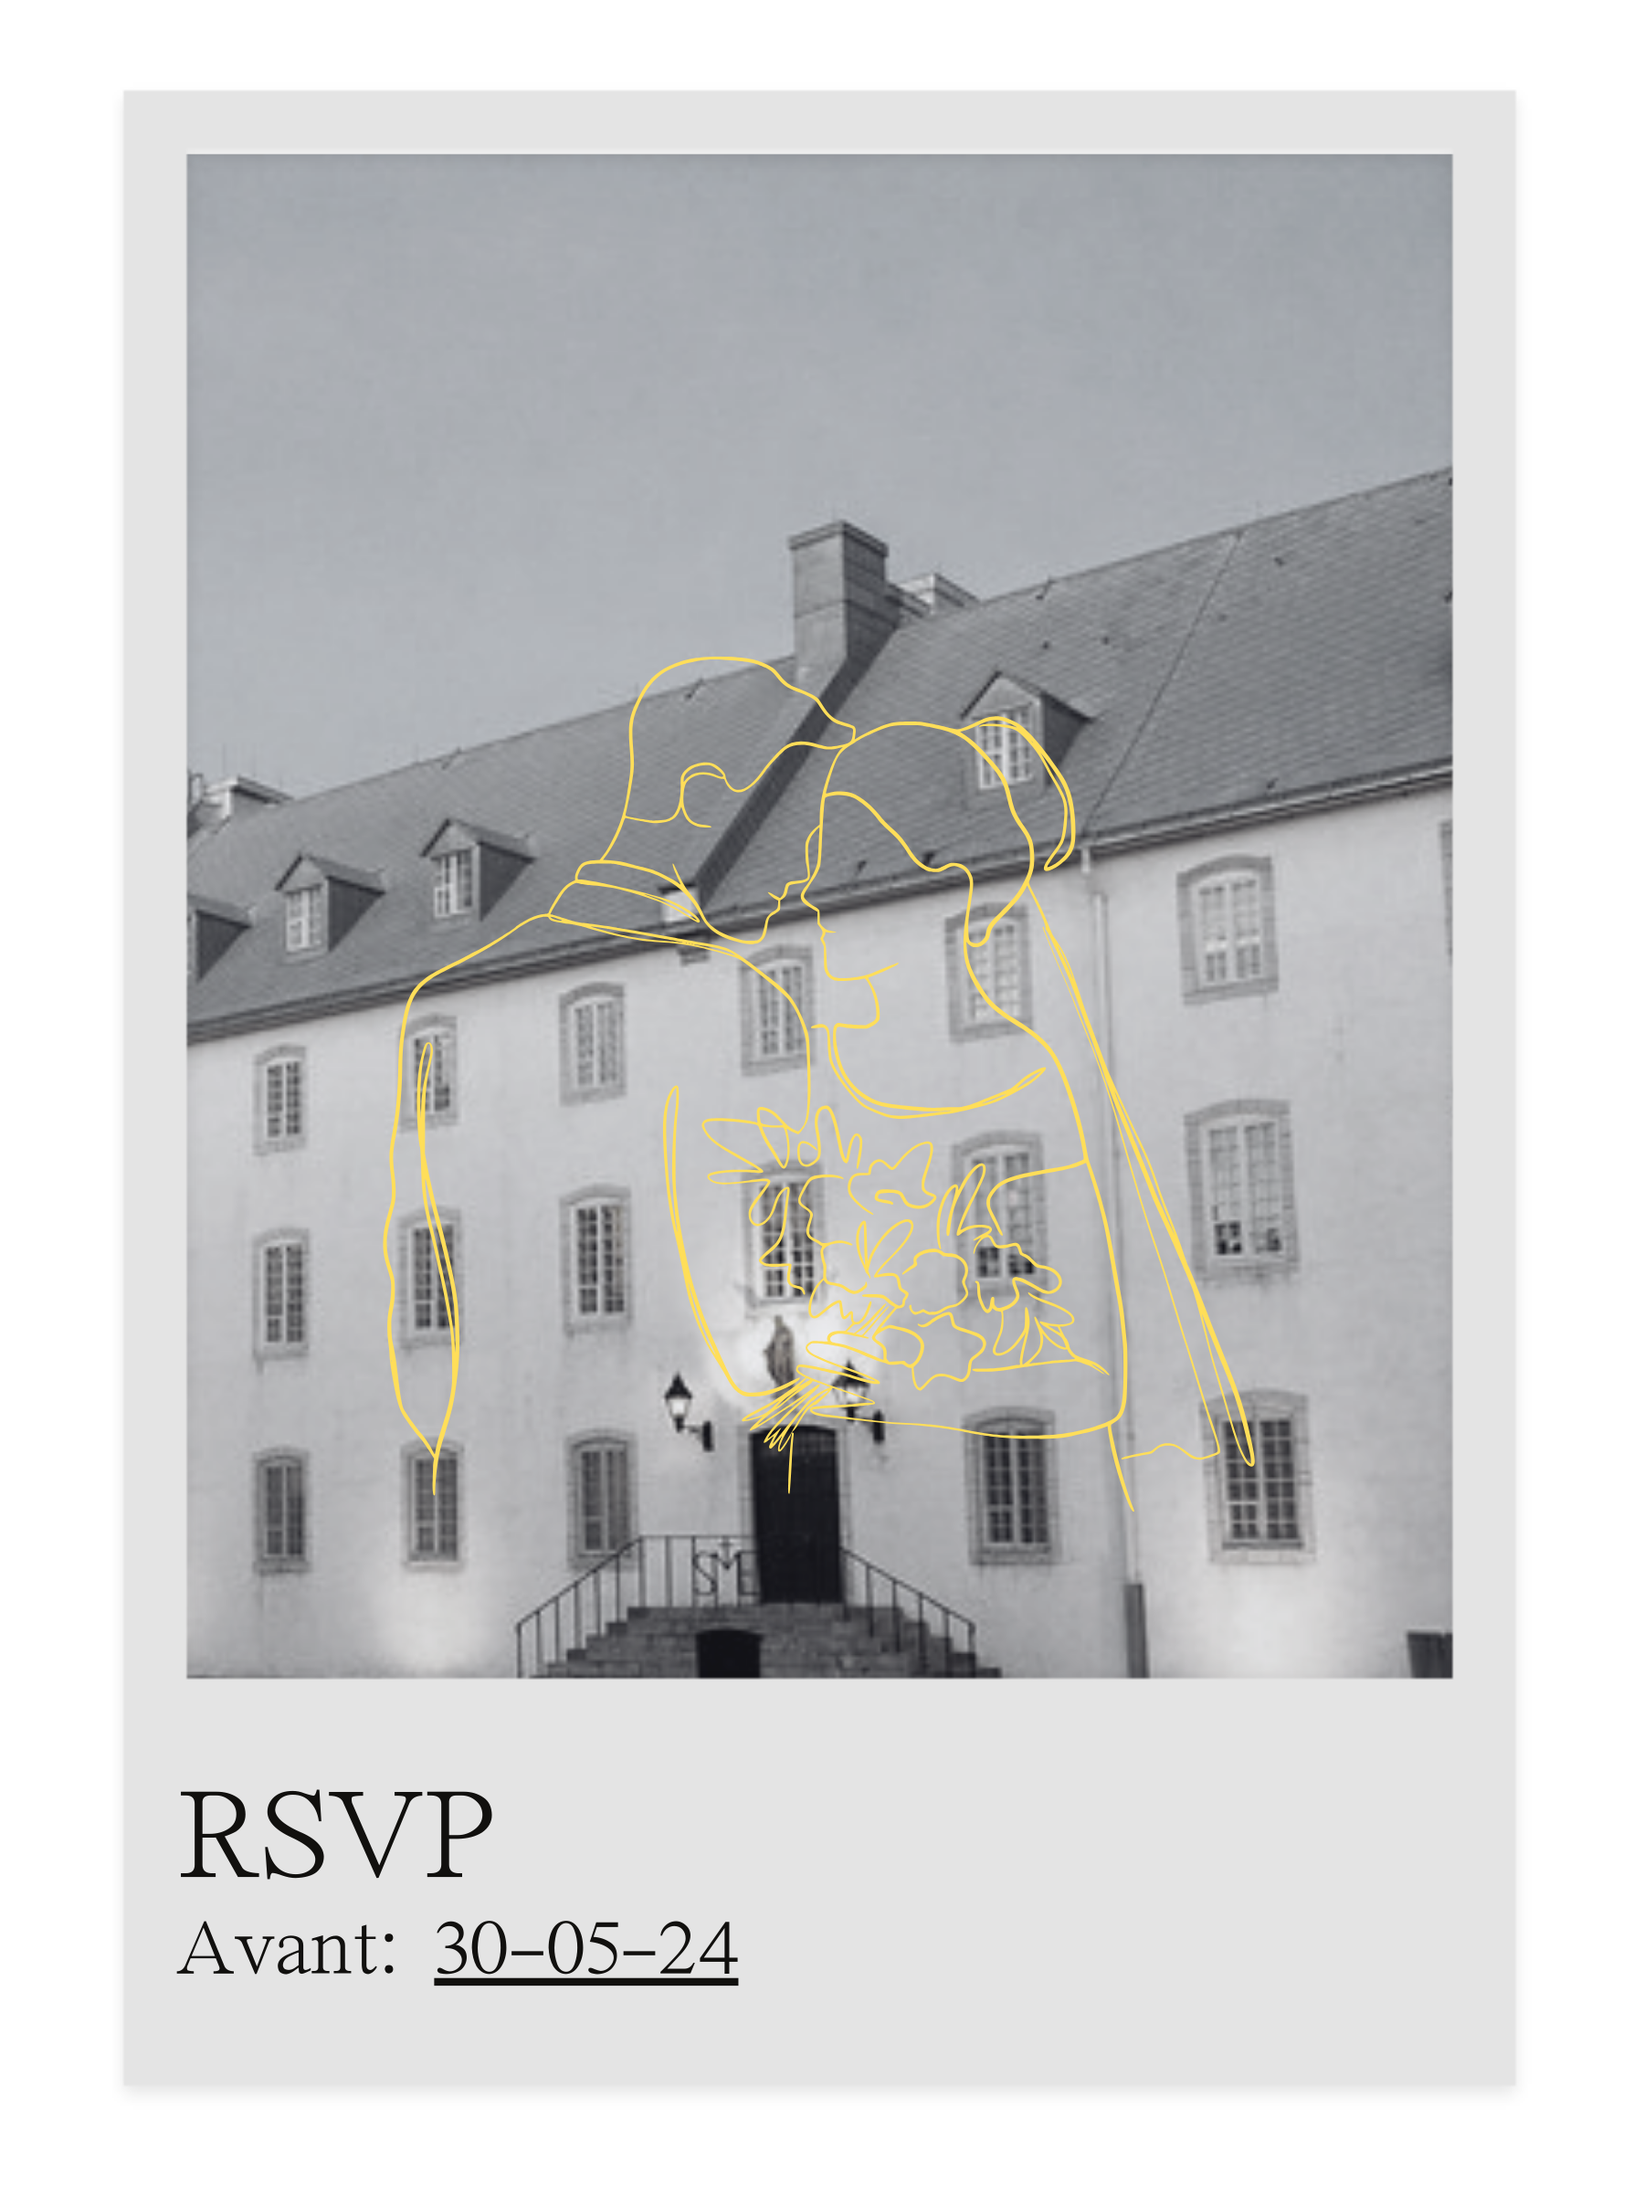
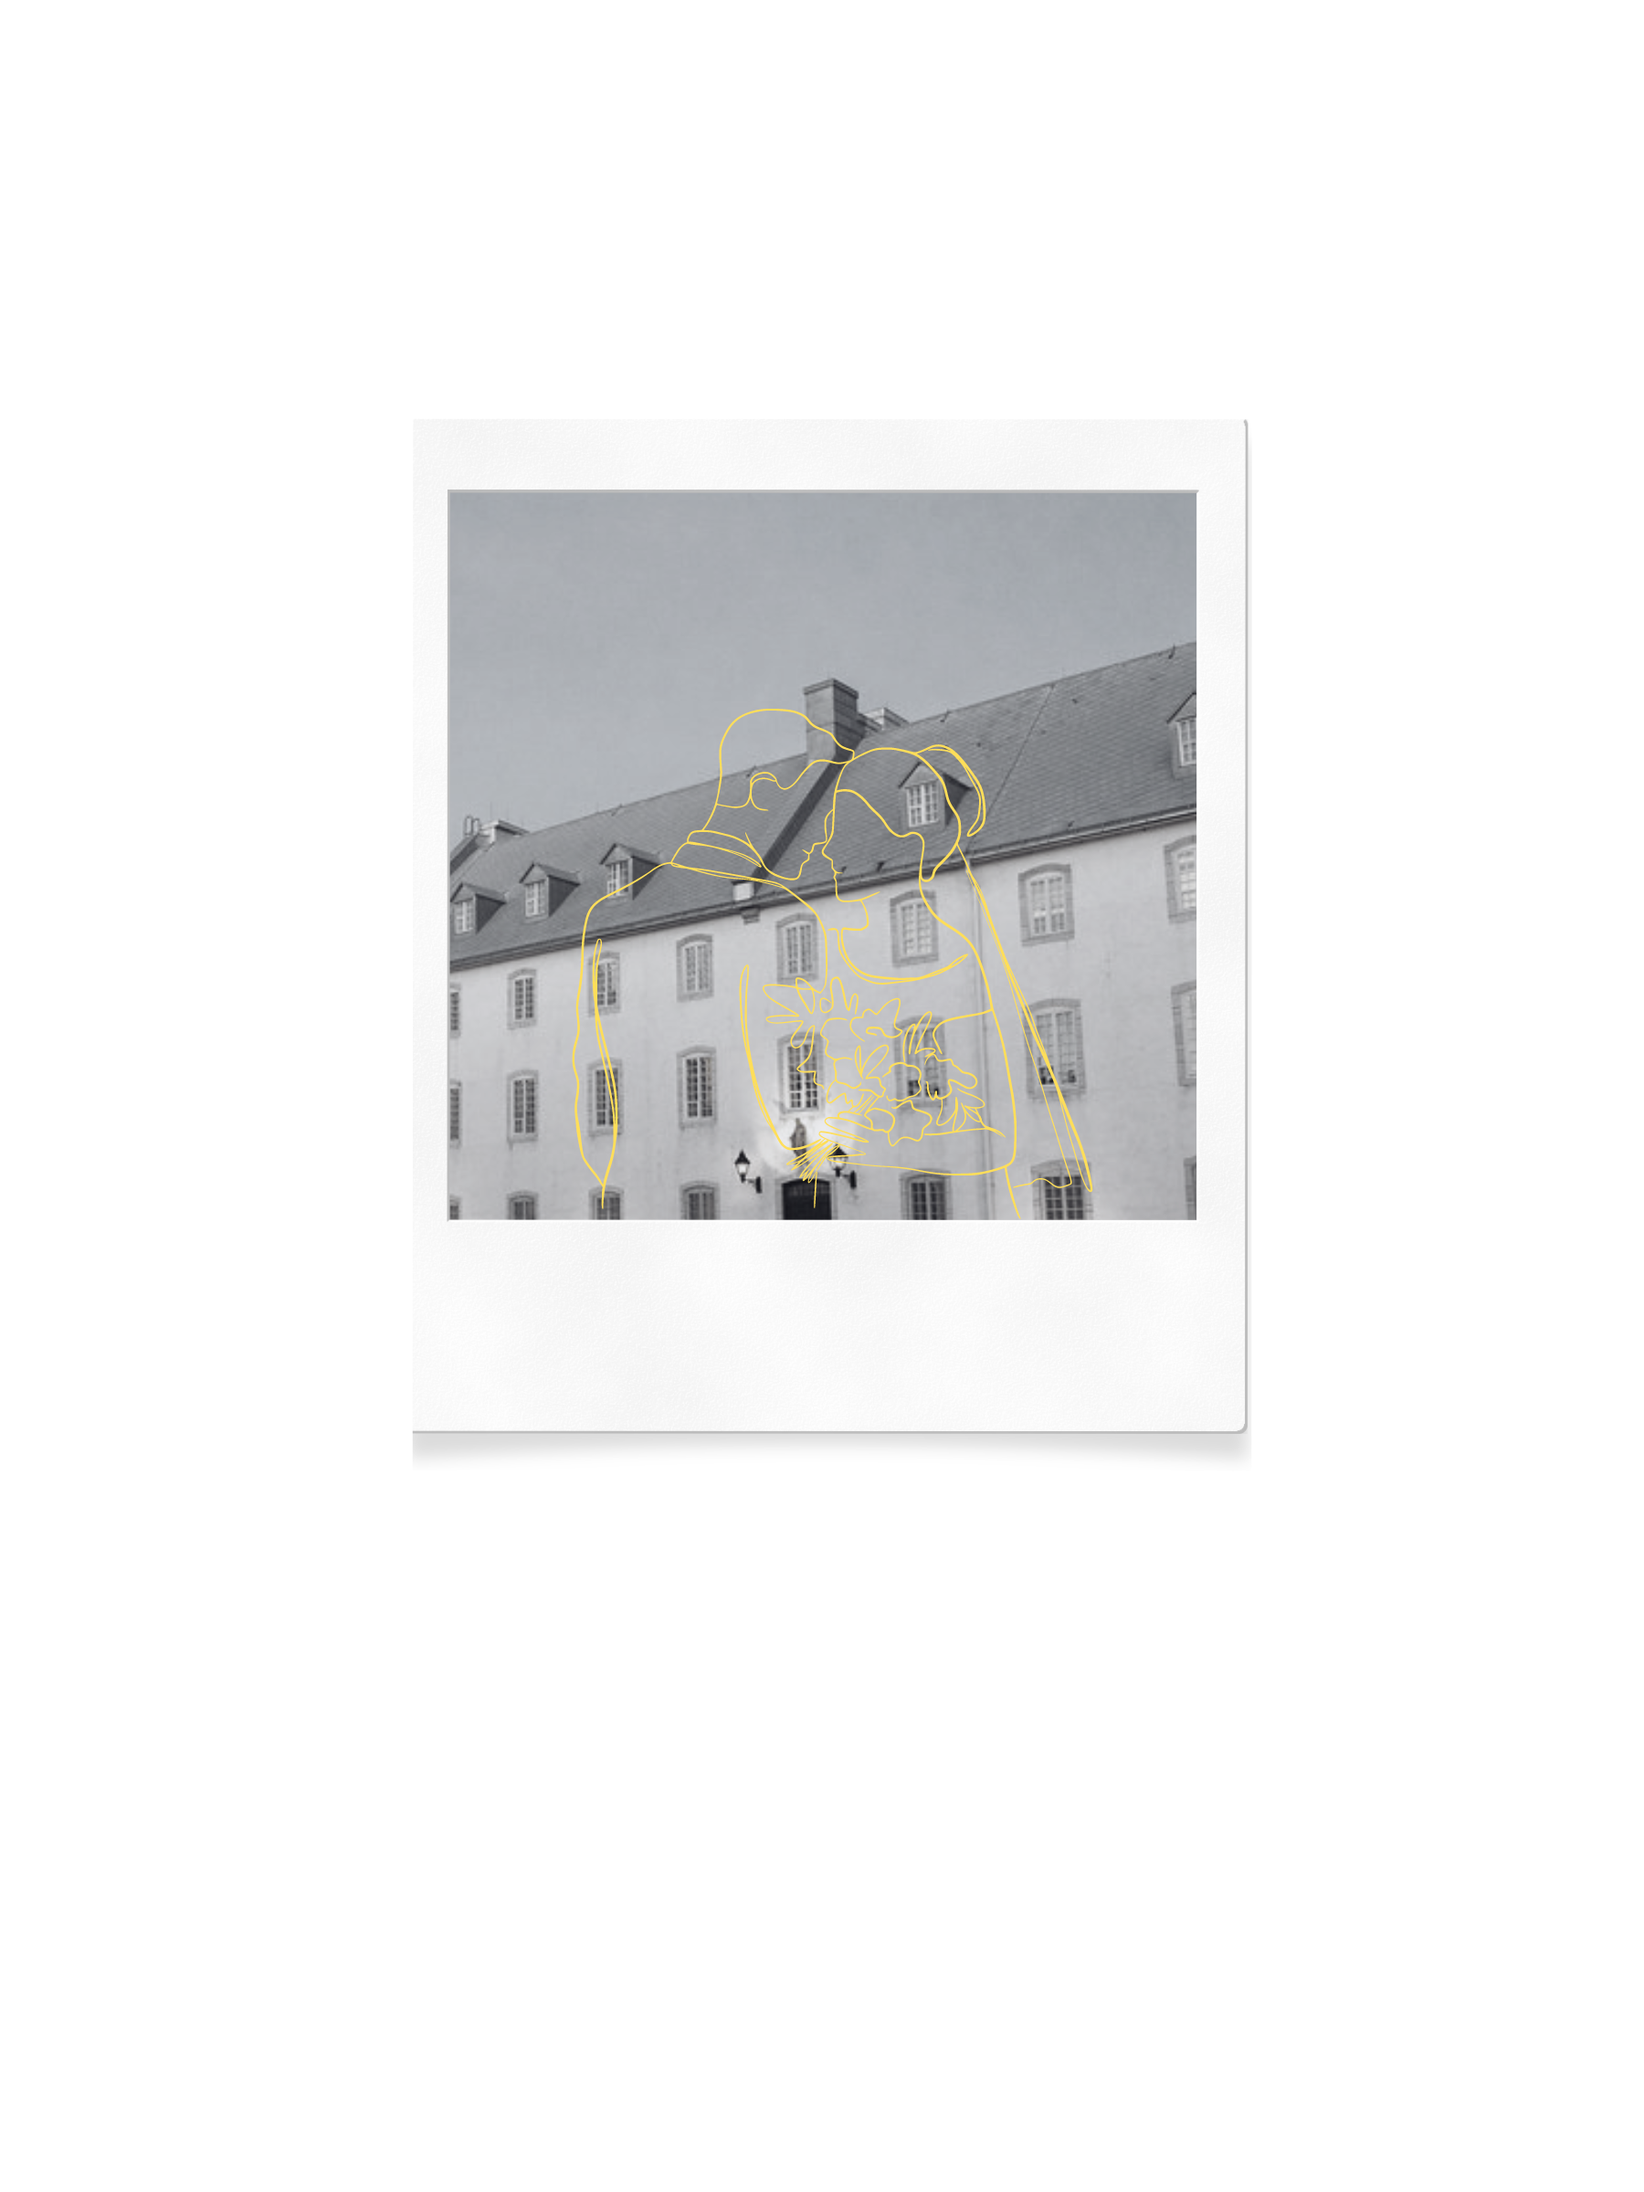
progress

diff --git a/src/components/Invitation.vue b/src/components/Invitation.vue
@@ -6,7 +6,9 @@
         <img :class="{ 'opening': isOpening }" src="../images/invite.png">
       </div>
       <div class="card-content cover">
-        <div class="rsvp" @click="openInvitation" :class="{ 'opening': isOpening }"></div>
+        <div class="rsvp" @click="rsvp" :class="{ 'opening': isOpening }">
+        <div id="btn"><p>RSVP</p><br/><p>Avant: 30 mai 2024</p></div>
+        </div>
         <div class="seal" @click="openInvitation" :class="{ 'opening': isOpening }"></div>
         <div class="left-pane" :class="{ 'opening': isOpening }"></div>
         <div class="right-pane" :class="{ 'opening': isOpening }"></div>
@@ -49,12 +51,38 @@ export default {
   position: absolute;
   width: 40%;
   aspect-ratio: 1;
-  top: 8%;
+  top: 6%;
   left: 39%;
   z-index: 3;
   background-image: url("../images/RSVP.png");
   background-size: contain;
   background-repeat: no-repeat;
+  opacity: 0;
+  &.opening {
+    animation: appear-rsvp 3s linear forwards;
+    animation-delay: 4s;
+  }
+  #btn {
+    background-color: rgb(218, 217, 217);
+    position: absolute;
+    border-radius: 2px;
+    width: 25%;
+    max-height: 5%;
+    aspect-ratio: 1;
+    font-size: .2rem;
+    font-weight: 500;
+    bottom: 37.5%;
+    right: 49.7%;
+    display: flex;
+    justify-content: center;
+    align-items: center;
+    flex-direction: column;
+    column-gap: .2rem;
+    box-shadow: .18rem .1rem .1rem rgba(37, 37, 37, 0.754);
+    & > p {
+      font-size: .2rem;
+    }
+  }
 }
 
 .invitation-card {
@@ -63,7 +91,7 @@ export default {
 
   #frame {
     opacity: 0;
-    max-height: 100%;
+    max-height: 90%;
   }
 
   .card-content {
@@ -136,17 +164,38 @@ export default {
     }
 
     50% {
-      transform: scale(1.15);
+      transform: scale(1.0999);
     }
 
     99.999% {
       opacity: 0.99999;
-      transform: scale(1.299999);
+      transform: scale(1.209999);
     }
 
     100% {
       opacity: 1;
-      transform: scale(1.30);
+      transform: scale(1.21);
+    }
+  }
+  @keyframes appear-rsvp {
+    0% {
+      opacity: 0;
+      transform: scale(1.00);
+    }
+
+    50% {
+      opacity: 0.5;
+      transform: scale(1.6);
+    }
+
+    99.999% {
+      opacity: 0.99999;
+      transform: scale(2.19999);
+    }
+
+    100% {
+      opacity: 1;
+      transform: scale(2.2);
     }
   }
   }
